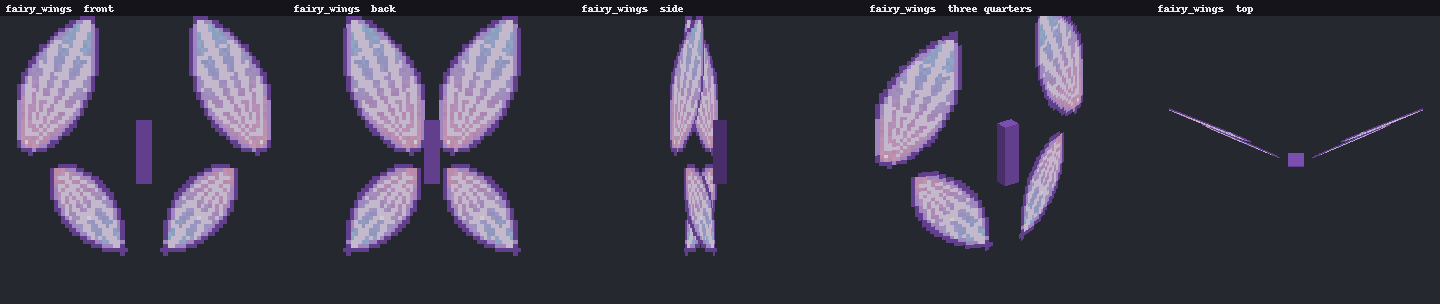
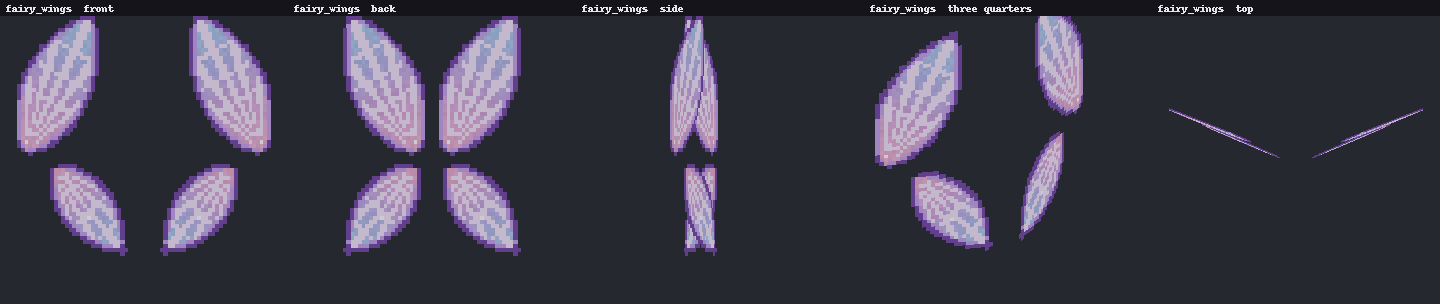
Foundry: fairy wings without the spine column, just the four wings

diff --git a/foundry/tools/gen_trinket_models.py b/foundry/tools/gen_trinket_models.py
@@ -323,8 +323,8 @@ WING_SWEEP = 22.5            # degrees each wing swings back from the plane of t
 
 
 def wings_model():
-    """Four flat wings on a small spine. Each plate stands in the plane of the back and is then turned about the
-    vertical by WING_SWEEP at the spine, tips away from the body, so from above the wings make a V. Each plate has a
+    """Four flat wings and nothing else (no spine between them). Each plate stands in the plane of the back and is then
+    turned about the vertical by WING_SWEEP where it meets the back, tips away from the body, so from above the wings make a V. Each plate has a
     front and a back face."""
     def plate(frm, to, uv, origin):
         return {"from": list(frm), "to": list(to),
@@ -342,12 +342,9 @@ def wings_model():
 
     upper = plate((9, 8, 7.7), (25, 28, 7.9), WING_UPPER, (9, 8, 7.8))
     lower = plate((9, -4, 7.75), (21, 8, 7.95), WING_LOWER, (9, 8, 7.8))
-    # the spine borrows a patch of the upper wing's rim near its base, where it is solid colour
-    spine = {"from": [7, 5, 7.2], "to": [9, 13, 8.8], "faces": {f: {"uv": list(SPINE_UV), "texture": "#0"} for f in FACES}}
-    return [spine, upper, lower, flip(upper), flip(lower)]
+    return [upper, lower, flip(upper), flip(lower)]
 
 
-SPINE_UV = [0.5, 9.25, 1.0, 9.5]  # filled in by paint_wings: a solid rim patch near the upper wing's base
 
 
 def paint_wings():
@@ -399,9 +396,6 @@ def paint_wings():
     wing((0, 0, 32, 40), (2, 38), 62, 40, 9.5)
     # lower wing: base near the top left of its box, pointing down and out at -48 degrees
     wing((32, 0, 56, 24), (34, 2), -48, 29, 7.0)
-    for py in range(37, 38):  # the spine patch: rim colour at the upper wing's base (uv 0.5..1, 9.25..9.5)
-        for px in range(2, 4):
-            img.putpixel((px, py), rim + (255,))
     return img
 
 
